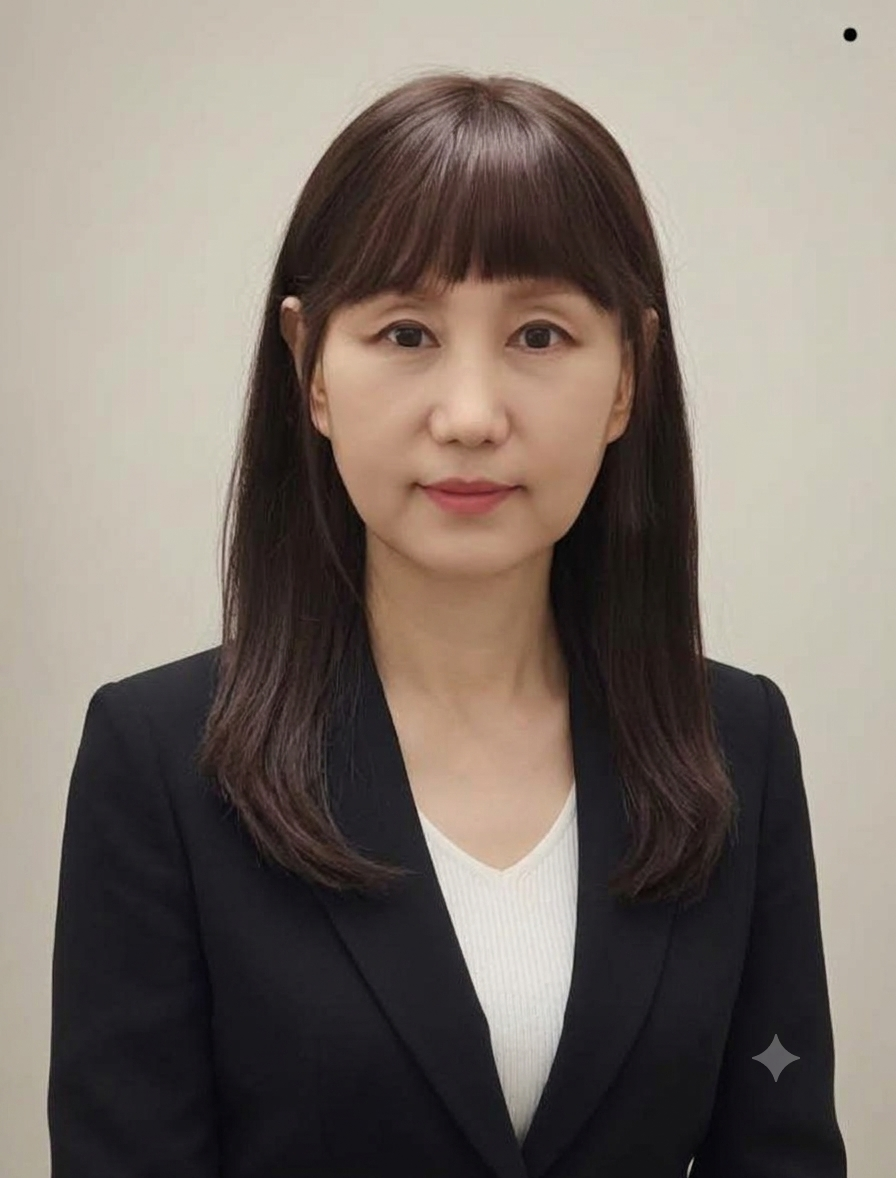
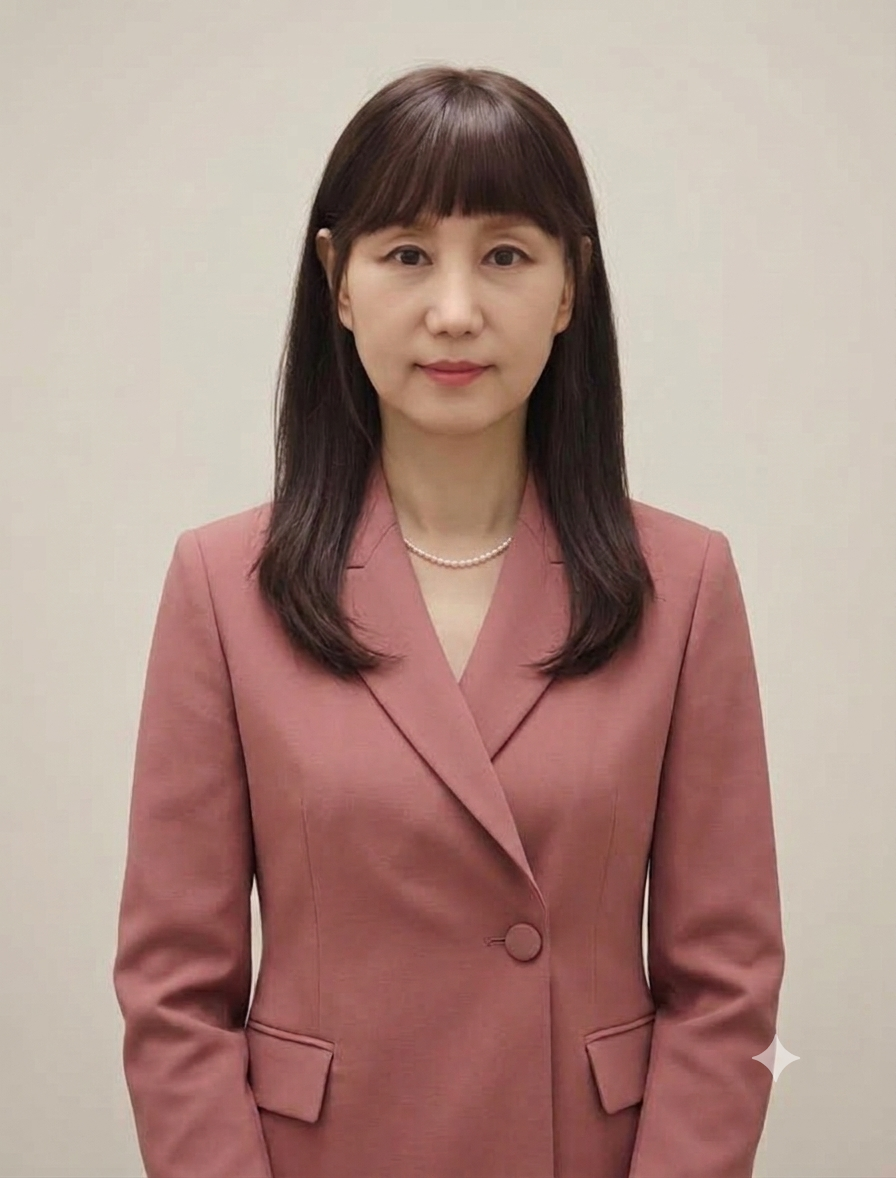
Firebase 관리자 동기화 보완과 설정 안내 및 강사 사진 교체

diff --git a/slides.html b/slides.html
@@ -267,9 +267,9 @@ table.tbl td:first-child{color:var(--sub)}
   <div class="grid-list" id="gridList"></div>
 </div>
 
-<div class="login" id="loginDialog" hidden>
+<div class="login" id="loginDialog" role="dialog" aria-modal="true" aria-labelledby="loginTitle" hidden>
   <form class="login-box" id="loginForm">
-    <h2>강사 로그인</h2>
+    <h2 id="loginTitle">강사 로그인</h2>
     <label>이메일<input id="loginEmail" type="email" autocomplete="username" required></label>
     <label>비밀번호<input id="loginPassword" type="password" autocomplete="current-password" required></label>
     <div class="err" id="loginError" role="status"></div>
@@ -315,6 +315,7 @@ table.tbl td:first-child{color:var(--sub)}
   var idx = 0;
   var adminMode = new URLSearchParams(location.search).has('admin');
   var isAdmin = false, sync = null, syncReady = false, lockOn = false, pdfOn = true, applyingRemote = false;
+  var lastState = null, connected = false, stateError = false;
 
   function lsGet(k){ try { return localStorage.getItem(k); } catch (e) { return null; } }
   function lsSet(k, v){ try { localStorage.setItem(k, v); } catch (e) { /* 저장 불가 환경 · 무시 */ } }
@@ -347,11 +348,15 @@ table.tbl td:first-child{color:var(--sub)}
     });
     progressEl.style.width = ((idx + 1) / total * 100) + '%';
     counterEl.textContent = (idx + 1) + ' / ' + total;
-    navPrev.disabled = idx === 0;
-    navNext.disabled = idx === total - 1;
+    updateNavigation();
     minis.forEach(function(m, n){ m.classList.toggle('current', n === idx); });
     lsSet(STORAGE_KEY, String(idx));
     if (syncReady && isAdmin && !applyingRemote) sync.setSlide(idx).catch(showSyncError);
+  }
+  function updateNavigation(){
+    var blocked = syncReady && lockOn && !isAdmin;
+    navPrev.disabled = blocked || idx === 0;
+    navNext.disabled = blocked || idx === total - 1;
   }
 
   function scaleMinis(){
@@ -372,6 +377,16 @@ table.tbl td:first-child{color:var(--sub)}
 
   document.addEventListener('keydown', function(e){
     var t = e.target;
+    if (!loginDialog.hidden) {
+      if (e.key === 'Escape') { loginDialog.hidden = true; document.getElementById('loginOpen').focus(); }
+      if (e.key === 'Tab') {
+        var fields = Array.prototype.slice.call(loginForm.querySelectorAll('input, button'));
+        var first = fields[0], last = fields[fields.length - 1];
+        if (e.shiftKey && t === first) { e.preventDefault(); last.focus(); }
+        else if (!e.shiftKey && t === last) { e.preventDefault(); first.focus(); }
+      }
+      return;
+    }
     if (t && t.closest && t.closest('input, textarea, select, audio, video')) return;
     if (gridOverlay.classList.contains('open')) {
       if (e.key === 'Escape' || e.key === 'g' || e.key === 'G') { closeGrid(); }
@@ -383,7 +398,7 @@ table.tbl td:first-child{color:var(--sub)}
     if (e.key === 'ArrowRight' || e.key === ' ' || e.key === 'PageDown') { e.preventDefault(); show(idx + 1); }
     else if (e.key === 'ArrowLeft' || e.key === 'PageUp') { e.preventDefault(); show(idx - 1); }
     else if (e.key === 'g' || e.key === 'G' || e.key === 'ㅎ') { openGrid(); }
-    else if (e.key === 'p' || e.key === 'P' || e.key === 'ㅔ') { e.preventDefault(); window.print(); }
+    else if (e.key === 'p' || e.key === 'P' || e.key === 'ㅔ') { e.preventDefault(); if(pdfOn) window.print(); }
     else if (e.key === 'Home') { show(0); }
     else if (e.key === 'End') { show(total - 1); }
   });
@@ -398,7 +413,7 @@ table.tbl td:first-child{color:var(--sub)}
   navNext.addEventListener('click', function(){ show(idx + 1); });
   document.getElementById('gridBtn').addEventListener('click', openGrid);
   document.getElementById('gridClose').addEventListener('click', closeGrid);
-  document.getElementById('printBtn').addEventListener('click', function(){ window.print(); });
+  document.getElementById('printBtn').addEventListener('click', function(){ if(pdfOn) window.print(); });
 
   var loginDialog = document.getElementById('loginDialog');
   var loginForm = document.getElementById('loginForm');
@@ -411,14 +426,19 @@ table.tbl td:first-child{color:var(--sub)}
     e.preventDefault(); if (!sync) return;
     document.getElementById('loginError').textContent = '';
     sync.login(document.getElementById('loginEmail').value, document.getElementById('loginPassword').value)
-      .then(function(){ loginDialog.hidden = true; loginForm.reset(); })
+      .then(function(){ document.getElementById('loginPassword').value = ''; if(isAdmin) loginDialog.hidden = true; })
       .catch(function(){ document.getElementById('loginError').textContent = '로그인 정보를 확인해 주세요.'; });
   });
   function setStatus(s){ document.getElementById('syncStatus').textContent = s; }
   function showSyncError(){ setStatus('연결 확인 필요'); }
+  function renderSyncStatus(){
+    if (stateError) { setStatus('상태 읽기 실패 · 규칙 확인'); return; }
+    if (!connected) { setStatus('연결 끊김 · 재연결 중'); return; }
+    setStatus(isAdmin ? '강사 제어 중' : lockOn ? '강사 화면 따라가기' : adminMode ? '강사 로그인 필요' : '청중 자유 이동');
+  }
   function initializeFirebase(){
     var cfg = window.FIREBASE_CONFIG;
-    if (!cfg || !cfg.apiKey || cfg.apiKey.indexOf('[') !== -1 || !cfg.databaseURL || cfg.databaseURL.indexOf('[') !== -1) {
+    if (!cfg || !['apiKey','authDomain','databaseURL','projectId','appId'].every(function(k){ return typeof cfg[k] === 'string' && cfg[k].trim() && !/[\[\]…]/.test(cfg[k]); }) || !/^https:\/\//.test(cfg.databaseURL)) {
       setStatus(adminMode ? 'Firebase 설정 후 로그인 가능' : '자유 열람');
       return;
     }
@@ -426,10 +446,13 @@ table.tbl td:first-child{color:var(--sub)}
       if (!mod.isConfigured(cfg)) { setStatus('자유 열람'); return; }
       sync = mod.createSync(cfg, window.DECK_ID || 'codex-first-steps-20261009');
       syncReady = true;
+      sync.onError(showSyncError);
+      sync.onConnection(function(on){ connected = on; renderSyncStatus(); });
       document.getElementById('loginOpen').hidden = !adminMode;
       if (adminMode) setStatus('강사 로그인 필요'); else setStatus('청중 자유 이동');
       sync.onState(function(state){
-        if (!state) { setStatus('Firebase 연결 확인 필요'); return; }
+        if (!state) { stateError = true; renderSyncStatus(); return; }
+        stateError = false; lastState = state;
         lockOn = !!state.locked; pdfOn = state.pdf !== false;
         document.documentElement.classList.toggle('no-pdf', !pdfOn);
         document.getElementById('printBtn').disabled = !pdfOn;
@@ -440,14 +463,20 @@ table.tbl td:first-child{color:var(--sub)}
         if (lockOn && !isAdmin && Number.isInteger(state.slide) && state.slide >= 0 && state.slide < total && state.slide !== idx) {
           applyingRemote = true; show(state.slide); applyingRemote = false;
         }
-        setStatus(lockOn ? '청중 잠금 ON' : '청중 자유 이동');
+        updateNavigation(); renderSyncStatus();
       });
-      sync.onAdmin(function(allowed){
-        isAdmin = !!allowed;
+      sync.onAdmin(function(allowed, user){
+        isAdmin = adminMode && !!allowed;
         document.getElementById('adminControls').classList.toggle('show', isAdmin && adminMode);
         document.getElementById('loginOpen').hidden = !adminMode || isAdmin;
-        document.getElementById('logoutBtn').hidden = !adminMode || !isAdmin;
-        if (isAdmin) { setStatus('강사 제어 중'); sync.setSlide(idx).catch(showSyncError); }
+        document.getElementById('logoutBtn').hidden = !adminMode || !user;
+        if (isAdmin) {
+          loginDialog.hidden = true; loginForm.reset();
+          if(lastState && Number.isInteger(lastState.slide)) { applyingRemote = true; show(lastState.slide); applyingRemote = false; }
+        } else if(adminMode && user) {
+          loginDialog.hidden = false; document.getElementById('loginError').textContent = '강사 권한 확인 중 · admins 등록 여부 확인';
+        }
+        updateNavigation(); renderSyncStatus();
       });
     }).catch(function(){ setStatus('Firebase 연결 확인 필요'); });
   }

diff --git a/firebase/firebase-sync.js b/firebase/firebase-sync.js
@@ -7,7 +7,7 @@
  * ============================================================ */
 import { initializeApp } from 'https://www.gstatic.com/firebasejs/12.19.0/firebase-app.js';
 import {
-  getDatabase, ref, get, set, update, push, onValue, onDisconnect, serverTimestamp
+  getDatabase, ref, set, update, push, onValue, onDisconnect, serverTimestamp, runTransaction
 } from 'https://www.gstatic.com/firebasejs/12.19.0/firebase-database.js';
 import {
   getAuth, signInWithEmailAndPassword, signOut, onAuthStateChanged
@@ -17,7 +17,9 @@ const DEFAULT_STATE = { slide: 0, locked: true, pdf: true };
 
 /* firebase-config.js 를 아직 채우지 않았으면 false - 이때 덱은 자유 열람으로 동작 */
 export function isConfigured(cfg) {
-  return !!(cfg && typeof cfg.apiKey === 'string' && cfg.apiKey && !cfg.apiKey.includes('[') && cfg.databaseURL);
+  return !!(cfg && ['apiKey', 'authDomain', 'databaseURL', 'projectId', 'appId'].every(
+    (key) => typeof cfg[key] === 'string' && cfg[key].trim() && !/[\[\]…]/.test(cfg[key])
+  ) && /^https:\/\//.test(cfg.databaseURL));
 }
 
 export function createSync(cfg, deckId) {
@@ -30,18 +32,33 @@ export function createSync(cfg, deckId) {
   let isAdmin = false;
   let user = null;
   const adminListeners = [];
+  const errorListeners = [];
+  let stopAdmin = null, revision = 0, permissionRevision = 0;
+  const reportError = (e) => errorListeners.forEach((cb) => cb(e));
+  const notifyAdmin = () => adminListeners.forEach((cb) => cb(isAdmin, user));
 
   /* 로그인만으로는 부족 - 이메일 가입은 누구나 가능하므로 admins 목록에 있는 UID 인지 확인 */
-  onAuthStateChanged(auth, async (u) => {
-    user = u; isAdmin = false;
-    if (u) {
-      try { isAdmin = (await get(ref(db, 'admins/' + u.uid))).val() === true; } catch (e) { isAdmin = false; }
-      if (isAdmin) {
-        const cur = await get(stateRef);
-        if (!cur.exists()) await set(stateRef, { ...DEFAULT_STATE, updatedAt: serverTimestamp() });
+  onAuthStateChanged(auth, (u) => {
+    const current = ++revision;
+    ++permissionRevision;
+    if (stopAdmin) stopAdmin();
+    stopAdmin = null;
+    user = u; isAdmin = false; notifyAdmin();
+    if (!u) return;
+    stopAdmin = onValue(ref(db, 'admins/' + u.uid), async (s) => {
+      if (current !== revision) return;
+      const permission = ++permissionRevision;
+      isAdmin = false;
+      if (s.val() === true) {
+        try {
+          // 최초 로그인 두 창에서도 기존 상태를 덮어쓰지 않기
+          await runTransaction(stateRef, (value) => value || { ...DEFAULT_STATE, updatedAt: serverTimestamp() });
+          if (current !== revision || permission !== permissionRevision) return;
+          isAdmin = true;
+        } catch (e) { reportError(e); }
       }
-    }
-    adminListeners.forEach((cb) => cb(isAdmin, user));
+      notifyAdmin();
+    }, (e) => { if (current !== revision) return; ++permissionRevision; isAdmin = false; notifyAdmin(); reportError(e); });
   });
 
   function patch(values) {
@@ -50,6 +67,7 @@ export function createSync(cfg, deckId) {
   }
 
   return {
+    onError(cb) { errorListeners.push(cb); },
     /* 상태가 바뀔 때마다 즉시 호출 (폴링 없음) */
     onState(cb) {
       return onValue(stateRef, (s) => cb({ ...DEFAULT_STATE, ...(s.val() || {}) }), () => cb(null));

diff --git a/firebase/firebase-config.js b/firebase/firebase-config.js
@@ -1,6 +1,9 @@
 /* Firebase 콘솔 → 프로젝트 설정 → 내 앱(웹) → SDK 설정 및 구성 → "구성" 값을 그대로 붙여넣기
    이 값은 비밀번호가 아님(웹 앱에 공개되는 식별 정보) · 보안은 database.rules.json 규칙이 담당
    databaseURL 은 Realtime Database 화면 상단 주소 (예: https://프로젝트-default-rtdb.asia-southeast1.firebasedatabase.app) */
+/* 사용자 제공 프로젝트 표시 이름: 0930notebooklm
+   실제 프로젝트 ID·SDK 구성 미확인 · 표시 이름으로 연결값을 추측하지 않기
+   연결 순서: firebase/SETUP.md */
 window.FIREBASE_CONFIG = {
   apiKey: '[apiKey 붙여넣기]',
   authDomain: '[프로젝트].firebaseapp.com',

diff --git a/firebase/SETUP.md b/firebase/SETUP.md
@@ -1,0 +1,79 @@
+# NotebookLM 강의 Firebase 연결 체크리스트
+
+프로젝트 생성 완료 이후의 작업. 프로젝트 표시 이름: `0930notebooklm`(사용자 제공). 실제 프로젝트 ID와 SDK 구성은 아직 확인되지 않음. 이름으로 ID·주소를 만들지 않기.
+
+## 1. 기존 프로젝트 확인
+
+- [ ] https://console.firebase.google.com/ 에서 프로젝트를 만든 Google 계정으로 로그인
+- [ ] 기존 `0930notebooklm` 프로젝트 선택
+- [ ] 프로젝트 설정 → 일반 → 프로젝트 ID 확인(표시 이름과 다를 수 있음)
+
+## 2. Realtime Database
+
+- [ ] 빌드 → Realtime Database → 데이터베이스 만들기(기존 데이터베이스가 있으면 그대로 사용)
+- [ ] 데이터 위치 선택 → 잠금 모드로 시작
+- [ ] 데이터 화면 상단의 실제 HTTPS 데이터베이스 URL 복사
+- [ ] `firebase/firebase-config.js`의 `databaseURL`에 입력
+
+## 3. Authentication
+
+- [ ] 빌드 → Authentication → 시작하기
+- [ ] 로그인 방법 → 이메일/비밀번호 사용 설정 → 저장
+- [ ] 사용자 → 사용자 추가 → 강사 이메일과 비밀번호를 콘솔에 직접 입력
+- [ ] 생성된 강사 사용자 UID 복사
+- [ ] 설정 → 승인된 도메인 → `codex-first-steps.vercel.app` 추가(이미 있으면 유지)
+- [ ] 비밀번호·서비스 계정 비공개 키를 저장소에 넣지 않기
+
+## 4. 데이터베이스 규칙
+
+- [ ] Realtime Database → 규칙 → `firebase/database.rules.json` 전체 내용 붙여넣기 → 게시
+- [ ] 공개 읽기: `decks/{덱 이름}/state`의 슬라이드 번호·잠금·PDF 상태
+- [ ] 상태 쓰기: `admins/{로그인 UID}`의 값이 불리언 `true`인 계정만 허용
+- [ ] admins 목록: 본인 UID 읽기만 허용 · 웹 앱에서 목록 추가·수정 금지
+- [ ] 다른 루트에 `.read: true`나 `.write: true` 규칙을 추가하지 않기
+
+## 5. 관리자 등록
+
+- [ ] Realtime Database → 데이터 → 루트에 `admins` 항목 추가
+- [ ] `admins` 아래에 Authentication에서 복사한 UID를 키로 추가
+- [ ] 값: 문자열 `"true"`가 아닌 불리언 `true`
+- [ ] 아래 구조는 형태 예시이며 실제 UID로 교체
+
+```json
+{ "admins": { "강사_사용자_UID": true } }
+```
+
+## 6. 웹 앱 등록과 구성 입력
+
+- [ ] 프로젝트 설정 → 일반 → 내 앱 → 웹 아이콘(`</>`) 선택(기존 웹 앱이 있으면 선택)
+- [ ] 앱 닉네임 입력 → 앱 등록 · Firebase Hosting 추가 설정은 불필요(Vercel 사용)
+- [ ] SDK 설정 및 구성 → 구성에서 실제 값 복사
+- [ ] `firebase/firebase-config.js`의 `window.FIREBASE_CONFIG`에 입력
+
+| 입력 키 | 확인 위치 |
+|---|---|
+| `apiKey` | 웹 앱 SDK 구성 |
+| `authDomain` | 웹 앱 SDK 구성 |
+| `projectId` | 웹 앱 SDK 구성·프로젝트 일반 설정 |
+| `appId` | 웹 앱 SDK 구성 |
+| `databaseURL` | Realtime Database 데이터 화면 상단 |
+
+`window.DECK_ID = 'codex-first-steps-20261009'`는 강의 동기화 경로이며 Firebase 프로젝트 ID와 별개. 강사·청중은 같은 파일과 덱 ID 사용.
+
+## 7. 배포와 두 기기 확인
+
+- [ ] 구성 파일 변경 커밋 → `main` 푸시 → Vercel 배포 완료 확인
+- [ ] 강사: https://codex-first-steps.vercel.app/slides.html?admin → 강사 로그인
+- [ ] 청중: https://codex-first-steps.vercel.app/slides.html (다른 기기나 브라우저)
+- [ ] 잠금 ON → 강사 다음 장 이동 → 청중 같은 번호 확인 · 청중 직접 이동 불가 확인
+- [ ] 잠금 OFF → 청중 개별 이동 확인 · 청중 이동이 강사 화면에 영향을 주지 않는지 확인
+- [ ] PDF OFF → PDF 저장 버튼과 P 단축키 비활성 확인 · ON 후 복원 확인
+- [ ] admins에 없는 사용자 → 강사 제어 버튼 미표시 · 상태 쓰기 거부 확인
+- [ ] 규칙 시뮬레이터에서 비로그인 쓰기 거부·등록 UID 쓰기 허용 확인
+- [ ] 기존 PDF 링크·영상 링크·음성 재생·이미지 표시 확인
+
+구성값 미입력·미완성 상태에서는 자유 열람. 연결 설정 뒤 네트워크 단절 시 마지막 수신 상태 유지 및 재연결 안내. PDF 스위치는 웹슬라이드의 인쇄 UI 제어이며 공개 자료 파일 다운로드 차단 기능은 아님.
+
+실제 프로젝트 구성 입력과 규칙 게시 이전에는 실제 Firebase 두 기기 동기화가 완료된 상태가 아님.
+
+참고: [웹 앱 등록](https://firebase.google.com/docs/web/setup), [이메일·비밀번호 인증](https://firebase.google.com/docs/auth/web/password-auth), [데이터베이스 규칙](https://firebase.google.com/docs/database/security).
